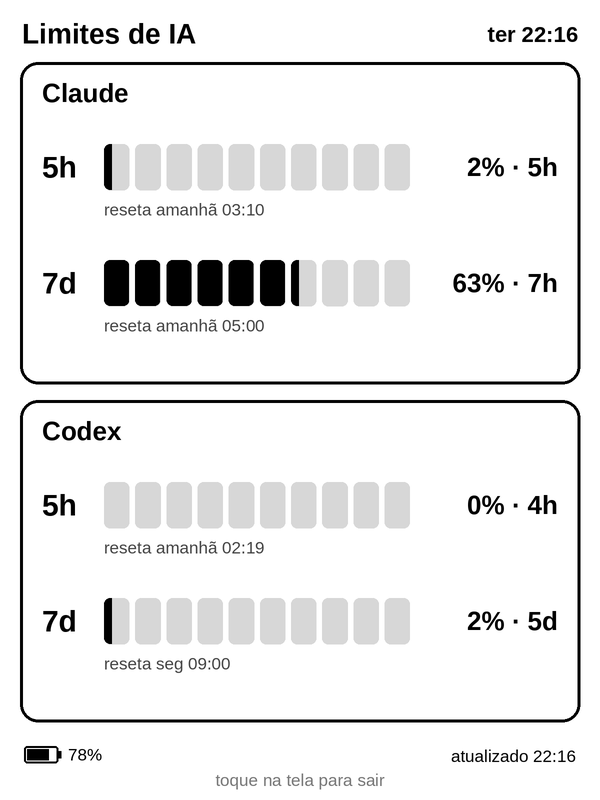
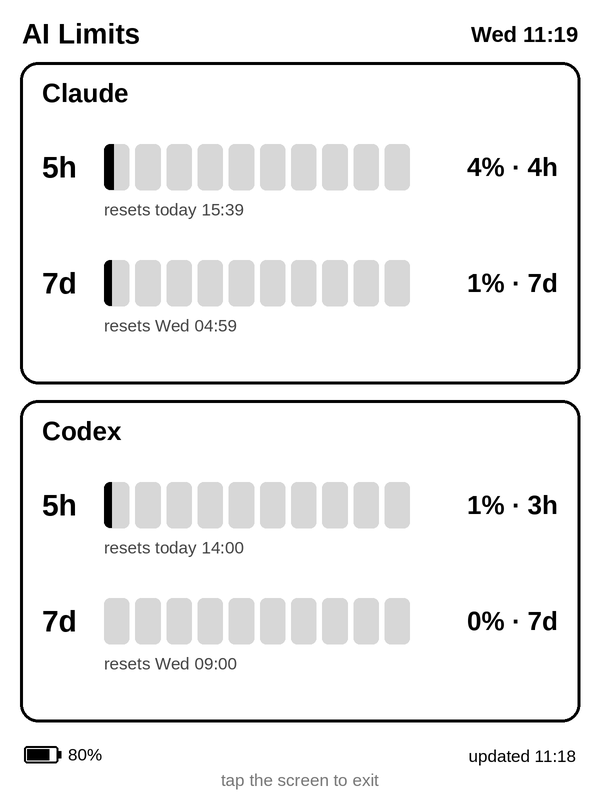
feat: translate Kindle AI monitor and dashboard to English

diff --git a/usage-api/src/view.js b/usage-api/src/view.js
@@ -4,24 +4,24 @@ const escapeHtml = (value) => String(value).replace(/[&<>"']/g, (char) => ({
 
 const TIME_ZONE = process.env.DISPLAY_TZ || "America/Sao_Paulo";
 
-const time = (date) => new Intl.DateTimeFormat("pt-BR", {
+const time = (date) => new Intl.DateTimeFormat("en-GB", {
   hour: "2-digit", minute: "2-digit", hour12: false, timeZone: TIME_ZONE,
 }).format(date);
 
-const date = (value) => new Intl.DateTimeFormat("pt-BR", {
+const date = (value) => new Intl.DateTimeFormat("en-GB", {
   day: "2-digit", month: "2-digit", year: "numeric", timeZone: TIME_ZONE,
 }).format(value);
 
 function countdown(resetsAt, now) {
-  if (!resetsAt) return "Reset não informado";
+  if (!resetsAt) return "Reset time unknown";
   const seconds = Math.max(0, Math.floor((new Date(resetsAt) - now) / 1000));
-  if (seconds === 0) return "Reset agora";
+  if (seconds === 0) return "Resets now";
   const days = Math.floor(seconds / 86400);
   const hours = Math.floor((seconds % 86400) / 3600);
   const minutes = Math.floor((seconds % 3600) / 60);
-  if (days) return `Reset em ${days}d ${hours}h`;
-  if (hours) return `Reset em ${hours}h ${minutes}min`;
-  return `Reset em ${minutes}min`;
+  if (days) return `Resets in ${days}d ${hours}h`;
+  if (hours) return `Resets in ${hours}h ${minutes}min`;
+  return `Resets in ${minutes}min`;
 }
 
 function usageWindow(label, value, now) {
@@ -33,13 +33,13 @@ function usageWindow(label, value, now) {
 function provider(name, state, now) {
   let body;
   if (state.available) {
-    body = usageWindow("5 HORAS", state.fiveHour, now) + usageWindow("7 DIAS", state.weekly, now);
-    if (!body) body = '<div class="error">Limites não informados</div>';
+    body = usageWindow("5 HOURS", state.fiveHour, now) + usageWindow("7 DAYS", state.weekly, now);
+    if (!body) body = '<div class="error">Limits unavailable</div>';
   } else {
     const auth = state.status === "not_authenticated";
-    const message = auth ? "Não autenticado" : "Dados indisponíveis";
-    const hint = auth ? "Autentique pelo terminal do CasaOS" : "Tente novamente em alguns minutos";
-    body = `<div class="error">${message}<span class="hint">${hint}<br>Última tentativa: ${time(new Date(state.attemptedAt))}</span></div>`;
+    const message = auth ? "Not signed in" : "Data unavailable";
+    const hint = auth ? "Sign in from the CasaOS terminal" : "Try again in a few minutes";
+    body = `<div class="error">${message}<span class="hint">${hint}<br>Last attempt: ${time(new Date(state.attemptedAt))}</span></div>`;
   }
   return `<section class="provider"><h1>${escapeHtml(name)}</h1>${body}</section>`;
 }
@@ -47,11 +47,11 @@ function provider(name, state, now) {
 export function renderDashboard(snapshot, now = new Date()) {
   const updated = new Date(snapshot.updatedAt);
   const stale = now - updated > 15 * 60 * 1000;
-  const staleNotice = stale ? `<div class="stale">Dados desatualizados &mdash; última atualização: ${time(updated)}</div>` : "";
+  const staleNotice = stale ? `<div class="stale">Stale data &mdash; last update: ${time(updated)}</div>` : "";
   return `<!doctype html>
-<html lang="pt-BR"><head><meta charset="utf-8"><meta http-equiv="refresh" content="300"><meta name="viewport" content="width=device-width,initial-scale=1"><title>Uso de IA</title>
+<html lang="en"><head><meta charset="utf-8"><meta http-equiv="refresh" content="300"><meta name="viewport" content="width=device-width,initial-scale=1"><title>AI Usage</title>
 <style>
 *{box-sizing:border-box}html,body{margin:0;padding:0;background:#fff;color:#000;font-family:Arial,Helvetica,sans-serif}body{width:100%;max-width:600px;padding:12px 18px 8px}.clock{font-size:21px;font-weight:bold;overflow:hidden}.date{float:left}.updated{clear:both;padding-top:3px;font-size:17px}.provider+.provider{border-top:4px solid #000;padding-top:12px}.stale{margin-top:6px;border:3px solid #000;padding:4px 7px;font-size:16px;font-weight:bold}.provider{margin-top:14px}h1{margin:0 0 8px;border-bottom:4px solid #000;padding-bottom:3px;font-size:27px;line-height:1.05}.window{margin:0 0 8px}.label{font-size:18px;font-weight:bold;margin-bottom:2px}.meter-row{display:table;width:100%}.meter{display:table-cell;height:24px;border:3px solid #000;vertical-align:middle}.fill{display:block;height:18px;background:#000}.percent{display:table-cell;width:62px;padding-left:8px;text-align:right;font-size:23px;font-weight:bold;vertical-align:middle}.reset{margin-top:1px;font-size:17px}.error{min-height:60px;padding:7px 8px;border:3px solid #000;font-size:20px;font-weight:bold}.hint{display:block;margin-top:4px;font-size:16px;font-weight:normal}@media(max-height:620px){body{padding-top:7px}.provider{margin-top:9px}h1{font-size:24px;margin-bottom:5px}.window{margin-bottom:5px}}
-</style></head><body><div class="clock"><span class="date">${date(now)}</span></div><div class="updated">Atualizado às ${time(updated)}</div>${staleNotice}${provider("CLAUDE CODE", snapshot.claude, now)}${provider("CODEX", snapshot.codex, now)}</body></html>`;
+</style></head><body><div class="clock"><span class="date">${date(now)}</span></div><div class="updated">Updated at ${time(updated)}</div>${staleNotice}${provider("CLAUDE CODE", snapshot.claude, now)}${provider("CODEX", snapshot.codex, now)}</body></html>`;
 }
 

diff --git a/usage-api/src/index.js b/usage-api/src/index.js
@@ -58,7 +58,7 @@ createServer((request, response) => {
     return;
   }
   if (!authorized(url)) {
-    response.writeHead(401, { ...noCache, "content-type": "text/plain; charset=utf-8" }).end("Não autorizado");
+    response.writeHead(401, { ...noCache, "content-type": "text/plain; charset=utf-8" }).end("Unauthorized");
     return;
   }
   if (request.method !== "GET") {

diff --git a/usage-api/test/dashboard.test.js b/usage-api/test/dashboard.test.js
@@ -20,7 +20,7 @@ test("renders a script-free Kindle page with five-minute fallback", () => {
   const html = renderDashboard(snapshot, now);
   assert.match(html, /http-equiv="refresh" content="300"/);
   assert.match(html, /CLAUDE CODE/);
-  assert.match(html, /Não autenticado/);
+  assert.match(html, /Not signed in/);
   assert.doesNotMatch(html, /<script/);
 });
 

diff --git a/server.py b/server.py
@@ -39,9 +39,9 @@ F_SM, F_SMB = font(17), font(17, True)
 F_MSG = font(20, True)
 
 STATUS_MSG = {
-    "not_authenticated": ("Não autenticado", "faça login no container kindle-ai-usage"),
-    "auth_expired": ("Login expirado", "faça login de novo no container"),
-    "unavailable": ("Serviço indisponível", "tentando novamente"),
+    "not_authenticated": ("Not signed in", "sign in on the kindle-ai-usage container"),
+    "auth_expired": ("Sign-in expired", "sign in again on the container"),
+    "unavailable": ("Service unavailable", "retrying"),
 }
 
 
@@ -58,7 +58,7 @@ def fetch_usage():
 
 # ---------- render ----------
 
-DIAS = ["seg", "ter", "qua", "qui", "sex", "sáb", "dom"]
+DAYS = ["Mon", "Tue", "Wed", "Thu", "Fri", "Sat", "Sun"]
 
 
 SEGMENTS = 10
@@ -105,11 +105,11 @@ def row(d, x0, x1, y, win, label):
     if reset:
         dt = datetime.fromtimestamp(reset, TZ)
         days = (dt.date() - datetime.now(TZ).date()).days
-        day = "hoje" if days == 0 else "amanhã" if days == 1 else DIAS[dt.weekday()]
+        day = "today" if days == 0 else "tomorrow" if days == 1 else DAYS[dt.weekday()]
         when = f"{day} {dt:%H:%M}"
-        d.text((bx0, y + seg_h + 10 * S), f"reseta {when}", font=F_SM, fill=70)
+        d.text((bx0, y + seg_h + 10 * S), f"resets {when}", font=F_SM, fill=70)
         if pct >= 90:
-            d.text((bx1, y + seg_h + 10 * S), "LIMITE PRÓXIMO", font=F_SMB, fill=0, anchor="ra")
+            d.text((bx1, y + seg_h + 10 * S), "NEAR LIMIT", font=F_SMB, fill=0, anchor="ra")
 
 
 def card(d, top, name, p):
@@ -132,7 +132,7 @@ def card(d, top, name, p):
         if win:
             row(d, rx0, rx1, y, win, label)
         else:
-            d.text((rx0, y), f"{label}: sem dados", font=F_ROWLBL, fill=120)
+            d.text((rx0, y), f"{label}: no data", font=F_ROWLBL, fill=120)
 
 
 # (timestamp, level) samples since the Kindle was last unplugged, to estimate drain rate.
@@ -157,7 +157,7 @@ def battery_estimate(level, charging):
 
 
 def draw_battery(d, x, y, level, charging):
-    """Battery icon + "78%" (+ "carregando" or "~20h restantes") at the bottom-left."""
+    """Battery icon + "78%" (+ "charging" or "~20h left") at the bottom-left."""
     bw, bh = 34 * S, 17 * S
     d.rounded_rectangle((x, y, x + bw, y + bh), 3 * S, outline=0, width=2 * S)
     d.rectangle((x + bw, y + 5 * S, x + bw + 3 * S, y + bh - 5 * S), fill=0)
@@ -170,11 +170,11 @@ def draw_battery(d, x, y, level, charging):
                    (cx + 5 * S, cy - 1 * S), (cx, cy - 1 * S)], fill=255 if level > 55 else 0)
     label = f"{level}%"
     if charging:
-        label += " · carregando"
+        label += " · charging"
     else:
         left = battery_estimate(level, charging)
         if left is not None:
-            label += f" · ~{left:.0f}h restantes" if left >= 1 else " · <1h restante"
+            label += f" · ~{left:.0f}h left" if left >= 1 else " · <1h left"
     d.text((x + bw + 10 * S, y + bh / 2), label, font=F_SMB if level <= 15 and not charging else F_SM, fill=0,
            anchor="lm")
 
@@ -184,8 +184,8 @@ def render(battery=None, charging=False):
     d = ImageDraw.Draw(img)
     now = datetime.now(TZ)
 
-    d.text((22 * S, 18 * S), "Limites de IA", font=F_TITLE, fill=0)
-    d.text(((W - 22) * S, 22 * S), f"{DIAS[now.weekday()]} {now:%H:%M}", font=F_CLOCK, fill=0, anchor="ra")
+    d.text((22 * S, 18 * S), "AI Limits", font=F_TITLE, fill=0)
+    d.text(((W - 22) * S, 22 * S), f"{DAYS[now.weekday()]} {now:%H:%M}", font=F_CLOCK, fill=0, anchor="ra")
 
     try:
         snap, err = fetch_usage(), None
@@ -195,12 +195,12 @@ def render(battery=None, charging=False):
     card(d, 400 * S, "Codex", snap.get("codex"))
 
     if err:
-        foot = "dashboard indisponível no Beelink"
+        foot = "dashboard unavailable on the Beelink"
     else:
         upd = parse_ts(snap.get("updatedAt"))
-        foot = f"atualizado {datetime.fromtimestamp(upd, TZ):%H:%M}" if upd else ""
+        foot = f"updated {datetime.fromtimestamp(upd, TZ):%H:%M}" if upd else ""
         if snap.get("stale"):
-            foot = "DADOS ANTIGOS · " + foot
+            foot = "STALE DATA · " + foot
     if battery is not None:
         if charging:
             battery_estimate(battery, True)
@@ -210,7 +210,7 @@ def render(battery=None, charging=False):
     else:
         d.text((W * S // 2, (H - 38) * S), foot, font=F_SMB if err or snap.get("stale") else F_SM, fill=0,
                anchor="ms")
-    d.text((W * S // 2, (H - 14) * S), "toque na tela para sair", font=F_SM, fill=120, anchor="ms")
+    d.text((W * S // 2, (H - 14) * S), "tap the screen to exit", font=F_SM, fill=120, anchor="ms")
 
     out = img.resize((W, H), Image.LANCZOS)
     buf = BytesIO()
